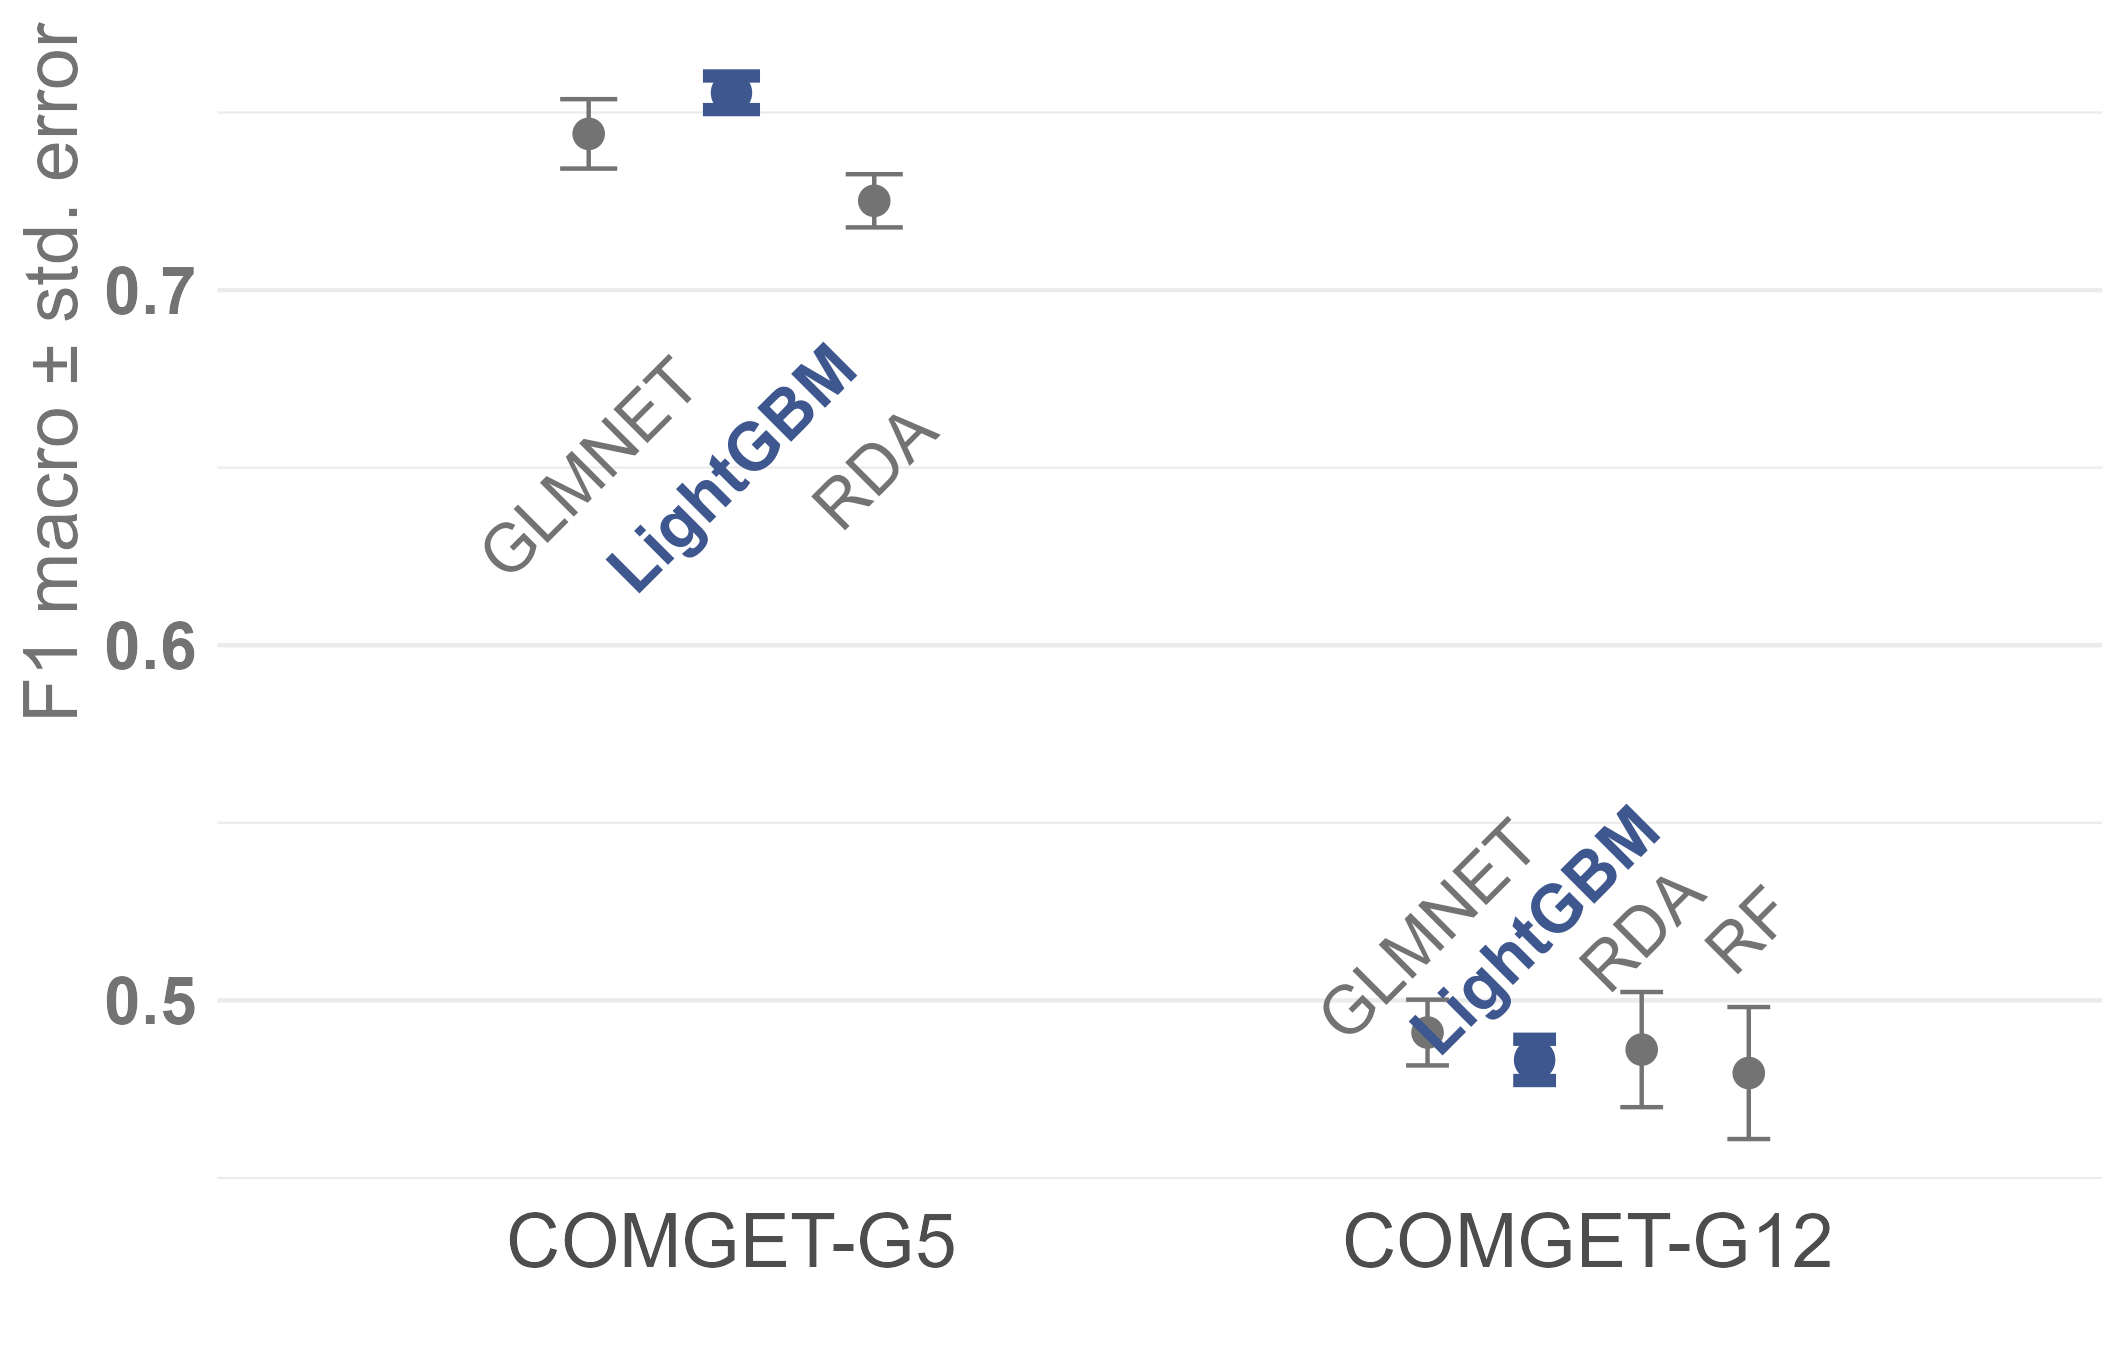
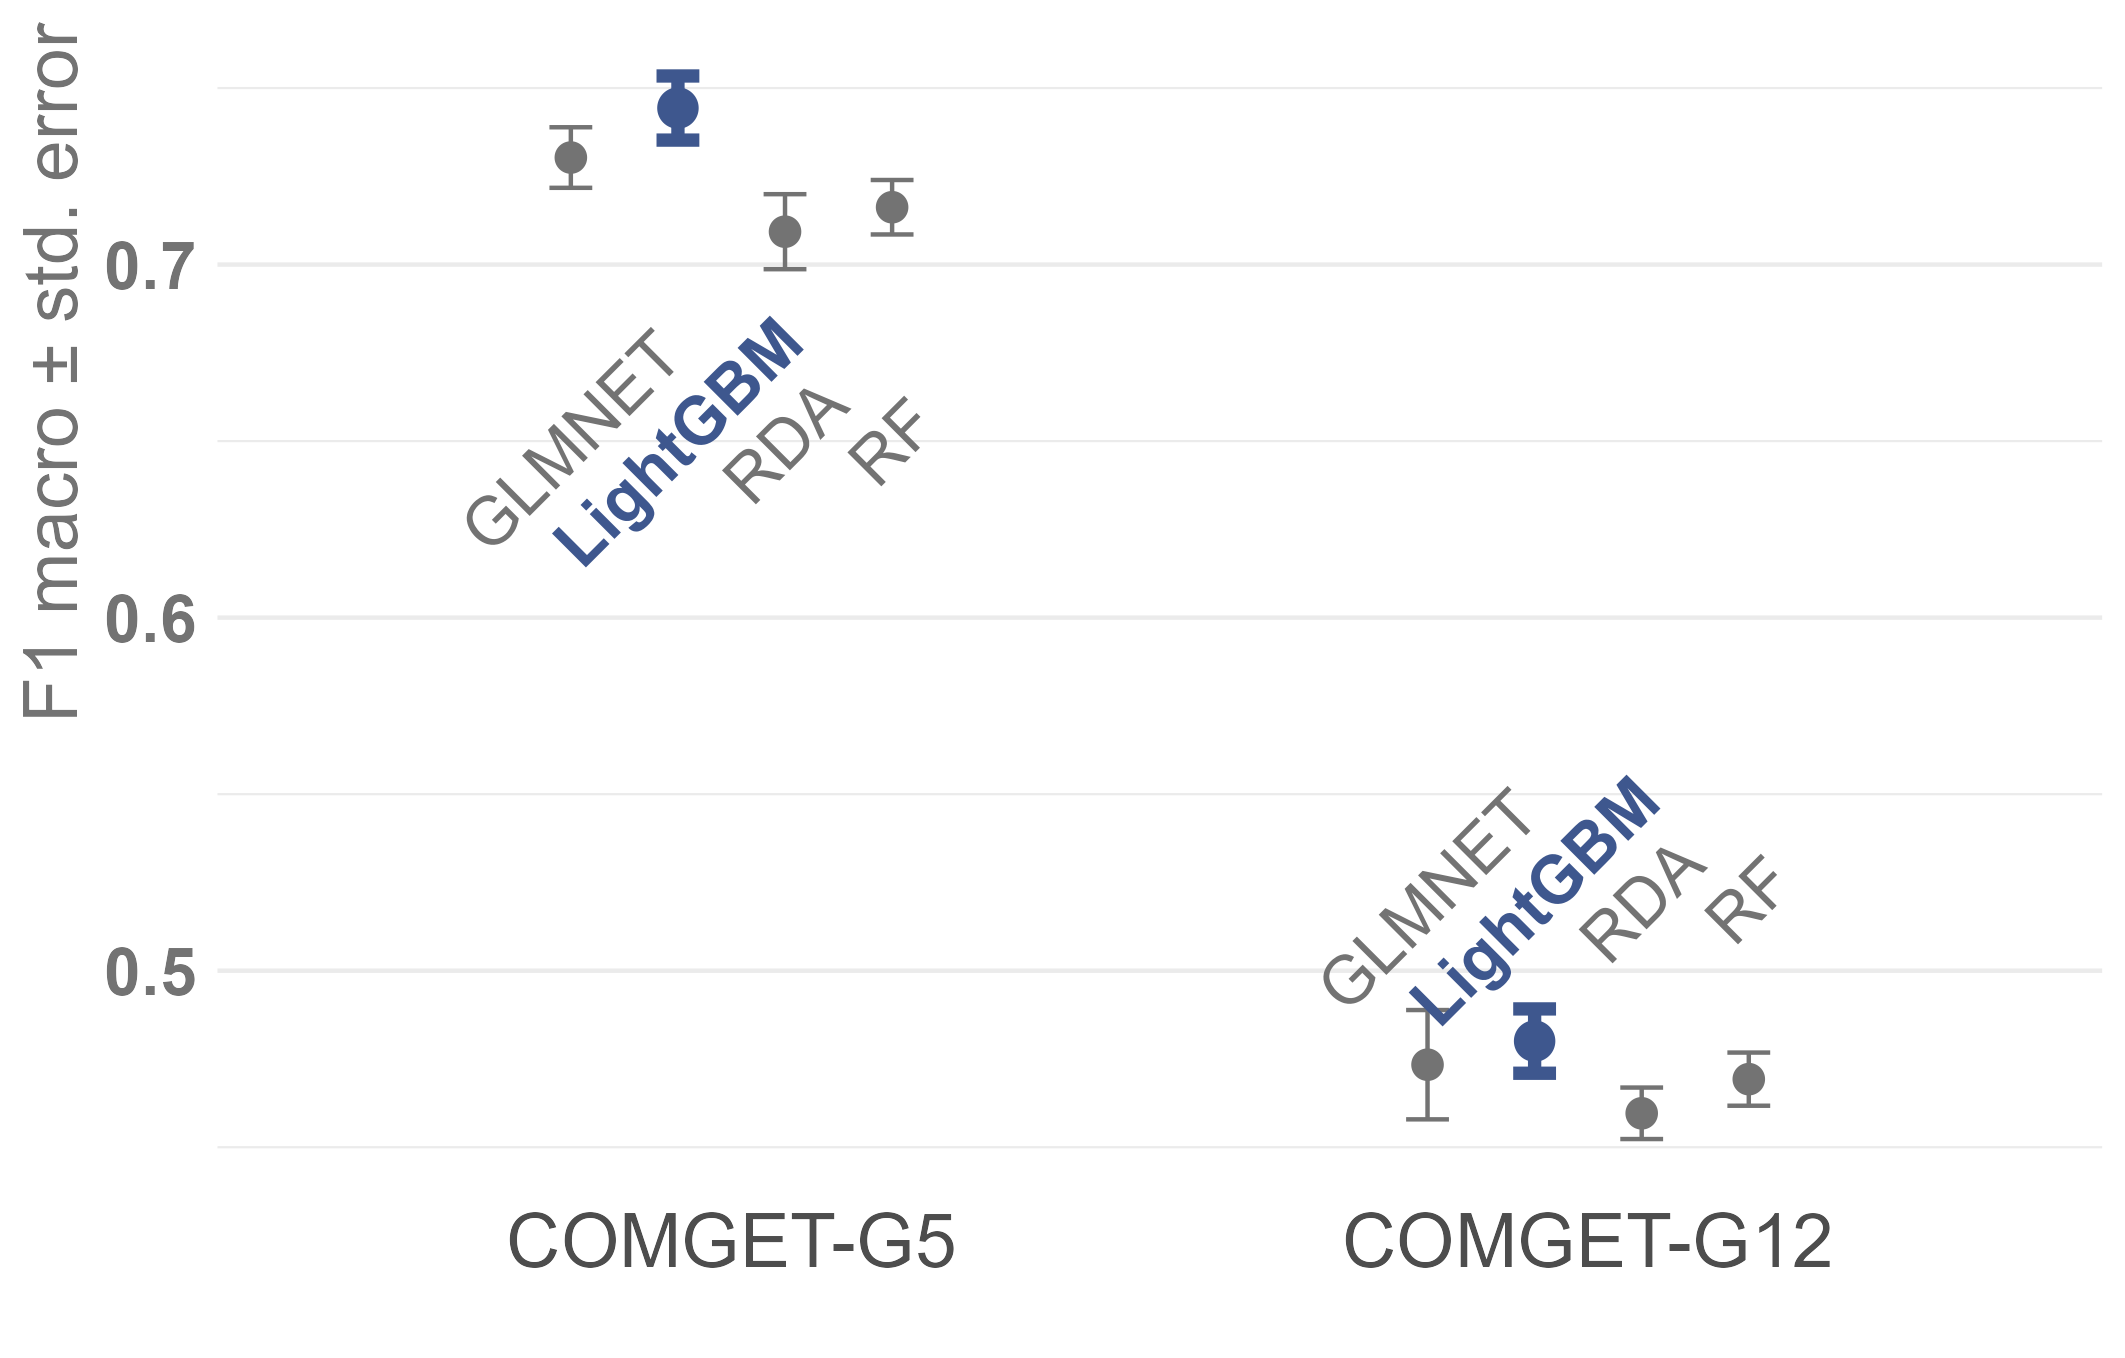
rewrite discussion part of paper

diff --git a/reports/paper_v1/PowerToThePeople_v1.tex b/reports/paper_v1/PowerToThePeople_v1.tex
@@ -243,7 +243,7 @@ each, we tuned key hyperparameters: GLMNET (\textit{penalty},
 \textit{leaf node size}, \textit{tree depth}; \textit{number of trees}:
 500 for tuning, 1,000 for final models), and LightGBM
 (\textit{boosting rounds}, \textit{learning rate}, \textit{leaf count},
-\textit{tree depth}, \textit{feature fraction}). Here, we employed a coarse hyperparameter search with a 10-level initial grid and a maximum of 15 iterations for Bayesian optimization.
+\textit{tree depth}, \textit{feature fraction}). Here, we employed a coarse hyperparameter search with a 10-level initial grid and a maximum of 25 iterations for Bayesian optimization.
 
 After selecting the learner with best performance accross folds, we performed a more extensive hyperparameter search with a 20-level initial grid and a maximum of 50 iterations with 5-fold crossvalidation on the full training set for all levels of granularity, trained the final classifiers on the full training set, and evaluated results on the holdout set. \textit{Community certainty} served as a reference point for evaluating final classifier performance, since ML models cannot exceed the consistency of the underlying human community assignments. For this comparison \textit{certainty} was computed as the mean assignment probability across votes for each track assigned to the \textit{single-label genre}. All random operations used the seed 42 for reproducibility.
 
@@ -338,7 +338,7 @@ Figure \ref{fig:rq3_varimp} shows the top 20 most important features for automat
 
 \section{Discussion}
 
-With the present article, we introduce a novel and methodologically transparent procedure for constructing well-balanced hierarchical genre taxonomies and according genre category assingments from listener-community discourse contained in folksonomies on open music database. Specifically, we make three key contributions: (1) an algorithm to construct a balanced hierarchical genre tree (COMGET) from folksonomy genre tag co-occurrences, (2) a  folding algorithm (FOLDCAT) that generates optimally balanced hierarchical genre category systems and final track-assignments at user-specified granularities from such trees; finally, we (3) demonstrate that resulting community-based genre assignments are a) comparable to existing folkosonomy genre taxonomies (i.e. \textit{Discogs}) and b) can be learned well with supervised machine learning by drawing on openly availiable music descriptors. Hence, our approach can be used as a transparent, reproducible, and empirically grounded alternative to commercial or expert-curated genre taxonomies in future applied or basic research. We demonstrated our approach with a large German popular music corpus (POPTRAG), drawing on \textit{MusicBrainz} folksonomy votes. Nevertheless, the method can in principle be adopted to any other music corpus and other genre tagging systems that provide co-occurences of tags (e.g. \textit{Spotify}, \textit{YouTube}, \textit{SoundCloud}).
+With the present article, we introduce a novel and methodologically transparent procedure for constructing well-balanced hierarchical genre taxonomies and according genre category assingments from listener-community discourse contained in folksonomies on open music databases. Specifically, we make three key contributions: (1) an algorithm to construct a balanced hierarchical genre tree (COMGET) from folksonomy genre tag co-occurrences, (2) a  folding algorithm (FOLDCAT) that generates optimally balanced hierarchical genre categories and final track-assignments at user-specified granularities from such trees; finally, we (3) demonstrate that resulting community-based genre assignments are a) comparable to existing folkosonomy genre taxonomies (i.e. \textit{Discogs}) and b) can be learned well with supervised machine learning by drawing on openly availiable music descriptors. Hence, our approach can be used as a transparent, reproducible, and empirically grounded alternative to commercial or expert-curated genre taxonomies in future applied or basic research. We demonstrated our approach with a large German popular music corpus (POPTRAG), drawing on \textit{MusicBrainz} folksonomy votes. Nevertheless, the method can in principle be adopted to any other music corpus and other genre tagging systems that provide co-occurences of tags (e.g. \textit{Spotify}, \textit{YouTube}, \textit{SoundCloud}).
 
 
 \subsection{Benefits for MIR Research and Applications}
@@ -347,10 +347,9 @@ A core methodological challenge in MIR stems from genre recognition benchmarks t
 
 Furthermore, our single-folksonomy approach ensures epistemic consistency. Mixed-source methods conflate different communities' genre concepts across platforms with varying demographics, tag voting systems, tag pools, and discursive contexts, introducing uncontrolled variance~\citep{schreiberImprovingGenreAnnotations2015,bogdanovAcousticbrainzGenreDataset2019}. Single-source taxonomies eliminate cross-platform variance, ensuring all genre assignments reflect a single community's discourse rather than mixing incompatible categorization systems. Combined with no arbitrary thresholds throughout the pipeline and open-source implementation, this ensures reproducibility and portability to any multi-tag corpus, as demonstrated with \textit{Spotify} distribution genres. Researchers can replicate the method on their target population's folksonomy, generating taxonomies specific to their chosen listener community.
 
-FOLDCAT addresses diverse practical needs while enabling cross-study comparison. The folding algorithm generates optimally balanced genre categories at multiple granularities using a single statistical criterion (Gini coefficient) across hierarchy levels. In addition, the underlying genre category assignments stay probabilistic. Hence, the framework quantifies achievable performance ceilings through community certainty, since models cannot exceed human consistency~\citep{sturmReviewValidityIts2023}. Strong correlations between certainty and classifier performance validate this approach, grounding MIR in listener perception limits. Classifier performance also demonstrates general learnability of the identified genre categories, while systematic confusion patterns reveal fuzzy boundaries (rock subgenres), stylistic permeability (electronic across pop/jazz/indie), and hierarchical nuance (heavy metal versus metal asymmetry). These patterns inform which granularities suit different research questions and reaffirm that genre labels remain learnable from the dimensions suggested by Lepa and Radke (2026). 
+FOLDCAT addresses diverse practical needs while enabling cross-study comparison. The folding algorithm generates optimally balanced genre categories at multiple granularities using a single statistical criterion (Gini coefficient) across hierarchy levels. In addition, the underlying genre category assignments stay probabilistic. Hence, the framework quantifies achievable performance ceilings through community certainty, since models cannot exceed human consistency~\citep{sturmReviewValidityIts2023}. Strong correlations between certainty and classifier performance validate this approach, grounding MIR in listener perception limits. Classifier performance also demonstrates general learnability of the identified genre categories, while systematic confusion patterns reveal fuzzy boundaries (\textit{rock} subgenres), stylistic permeability (\textit{electronic} across \textit{pop}/\textit{jazz}/\textit{indie}), and hierarchical nuance (\textit{heavy metal} versus \textit{metal} asymmetry). These patterns inform which granularities suit different research questions and reaffirm that genre labels remain learnable from the dimensions suggested by Lepa and Radke (2026). 
 
-%TODO: INtegrate into paragraph before
-% Artist-level features dominate across granularities: distribution genre flags (Spotify artist tags) emerge as strongest predictors, with artist demographics outweighing audio features. Release milieu guides perception~\citep{nealeGenre1980}. Stylistic features contribute secondarily—audio distinguishes broad categories, but lyric features remain weak, suggesting need for LLM embeddings~\citep{prevedelloLyricsSuccessEmbedding2024}. Popularity emerges at finer resolutions, where commercial success itself becomes a genre signal~\citep{holtGenrePopularMusic2007}, particularly for mainstream pop detection. 
+
 
 \subsection{Benefits for Computational Musicology and Cultural Analysis}
 
@@ -360,23 +359,14 @@ Crucially, COMGET taxonomies capture how listeners organize popular music genres
 
 Our POPTRAG analysis illustrates the method's capacity to reveal genre discourse structures computationally. \textit{Rock}, \textit{pop}, and \textit{hip hop} emerged as three primary clusters for German popular music genres in Germany, partially aligning with \citet{silverGenreComplexesPopular2016} who identified three main international clusters analyzing MySpace artist networks in 2007. However, structures differ: \textit{rock} forms a distinct cluster in POPTRAG versus Silver et al.'s scattered "Niche" genres; \textit{hip hop} shows minimal differentiation (consistent with Silver et al.); \textit{pop} exhibits stylistic diversity versus Silver et al.'s "Rock 'n Roll" category. Direct comparison remains limited—Silver analyzed artists on a social networking platform, we analyze tracks in a national listening corpus across different decades—yet the method enables such comparative analyses across corpora, revealing how genre discourse varies by platform, national context, and historical period~\citep{pichlMiningCultureSpecificMusic2017,nieInaccuratePredictionGenre2022}. 
 
+Transparent automated classifier analysis reveals how listener communities perceive genres: artist-level features dominate predictions across all granularities in our German popular music analysis, with distribution genre flags (\textit{Spotify} artist tags) and artist demographics outweighing audio features—a finding consistent with genre theory emphasizing release milieu~\citep{nealeGenre1980}. Stylistic features play a secondary role: audio features distinguish broad categories, but bag-of-words and lexical lyric features prove weak, pointing toward LLM-based embeddings as a promising direction~\citep{prevedelloLyricsSuccessEmbedding2024}. Popularity gains importance at finer resolutions as a genre signal itself~\citep{holtGenrePopularMusic2007}. Genre-specific confusion patterns further illuminate boundary strength: e.g., \textit{rock} subgenre overlap (\textit{alternative}, \textit{pop rock}, \textit{indie}) reveals fuzzy boundaries; \textit{electronic} permeability across \textit{pop}, \textit{jazz}, and \textit{indie} reflects stylistic fluidity; and \textit{schlager}–\textit{hip hop} separation demonstrates distinct release milieus and stylistic features.
 
-%TODO Integrate into boundary discussions with one sentence
-% Genre-specific confusion patterns reveal discourse boundaries: \textit{rock} subgenre overlap (\textit{alternative}, \textit{pop rock}, \textit{indie}) indicates fuzzy boundaries; \textit{electronic} permeability across \textit{pop}, \textit{jazz}, and \textit{indie} suggests stylistic fluidity; \textit{schlager} and \textit{hip hop} separation demonstrates distinct release-milieus
-
-
-The method enables diverse applications for cultural research: % LIST A FEW EXAMPLES WITH STUDIES
-Stakeholder applications extend beyond technical classification: the method enables radio programmers and playlist editors to understand how audiences actually organize music; A\&R teams to identify gaps between industry positioning and listener reception; marketing departments to recognize which subcultural boundaries audiences perceive versus industry-imposed categories; music journalists to ground critical language in empirical listener consensus; platform designers to align recommendation logic with listener mental models. 
-
+Beyond cultural research, this method offers new possibilities for stakeholders across the music industry: radio programmers and playlist editors to gain insight into how audiences organize music; A\&R teams to identify gaps between industry positioning and listener reception; marketing departments to recognize which subcultural boundaries audiences perceive versus industry-imposed categories; music journalists to ground critical language in empirical listener consensus; and platform designers to align recommendation logic with listener mental models.
 
 \subsection{Limitations and Future Directions}
-%TODO improve these paragraphs
-Several constraints limit generalization of our method's results to other contexts. \textit{MusicBrainz} launched in 2000 without individual vote timestamps, so COMGET-G aggregates roughly 25 years of listener votes across a period when genre boundaries and perception likely shifted. Platform user demographics and expertise remain opaque (approximately 1.2 million anonymous editor accounts), preventing assessment of demographic or expertise bias. Western and English-language bias affects the platform. Popularity bias excluded 36\% of tracks with insufficient votes—acceptable for popular music focus but problematic for niche genres, potentially biasing against non-Western genres. The method remains portable to any folksonomy, but resulting taxonomies remain culturally and linguistically specific: language-specific terms (e.g., \textit{Schlager} in German context) may not transfer to other linguistic communities, limiting cross-cultural comparability of derived categories.
+Several constraints limit interpretation and generalization of our exemplary results. MusicBrainz launched in 2000 and does not provide individual vote timestamps, so COMGET-G aggregates roughly 25 years of listener votes spanning a period when genre boundaries and perception likely shifted. Platform user demographics and expertise remain opaque (approximately 1.2 million anonymous editor accounts; MusicBrainz,~\citeyear{MusicBrainz_nodate}), preventing assessment of demographic or expertise bias. For the analysis we excluded 36\% of tracks with insufficient votes, thereby introducing slight popularity bias—acceptable for our popular music focus but possibly problematic for niche genres. Methodologically, collinearity among predictors complicates feature importance interpretation. Single-label reduction loses multi-tag nuance, though this simplification proves necessary for many applied research tasks and aligns with our democratic approach.
 
-
-Methodologically, collinearity among predictors complicates feature importance interpretation and may cause instability across cross-validation folds. Single-label reduction loses multi-tag nuance for classification, though this simplification proves necessary for many applied research tasks. Lyric features contributed minimally to classifier performance, suggesting current bag-of-words representations fail to capture genre-relevant content; LLM-based embeddings may improve lyric signal~\citep{prevedelloLyricsSuccessEmbedding2024}.
-
-Future work should pursue three directions. First, convene popular music experts to review the taxonomy, label exemplar tracks, and identify misassignments to strengthen COMGET-G's validity. Second, replicate the pipeline on independent folksonomies or regional corpora of tracks (e.g., US and UK charts) to reveal how national listening cultures reshape genre structure. Third, enhance classifier prediction through advanced lyric features or learners.
+Future work should pursue three directions. First, convene popular music experts to review the taxonomy, label exemplar tracks for genre categories at different levels of granularity, and identify misassignments to strengthen COMGET-G's validity. Second, replicate the pipeline on independent folksonomies and regional corpora of tracks (e.g., US and UK charts) to reveal how national listening cultures reshape genre structure. Third, enhance classifier prediction through advanced lyric features or learners.
 
 
 